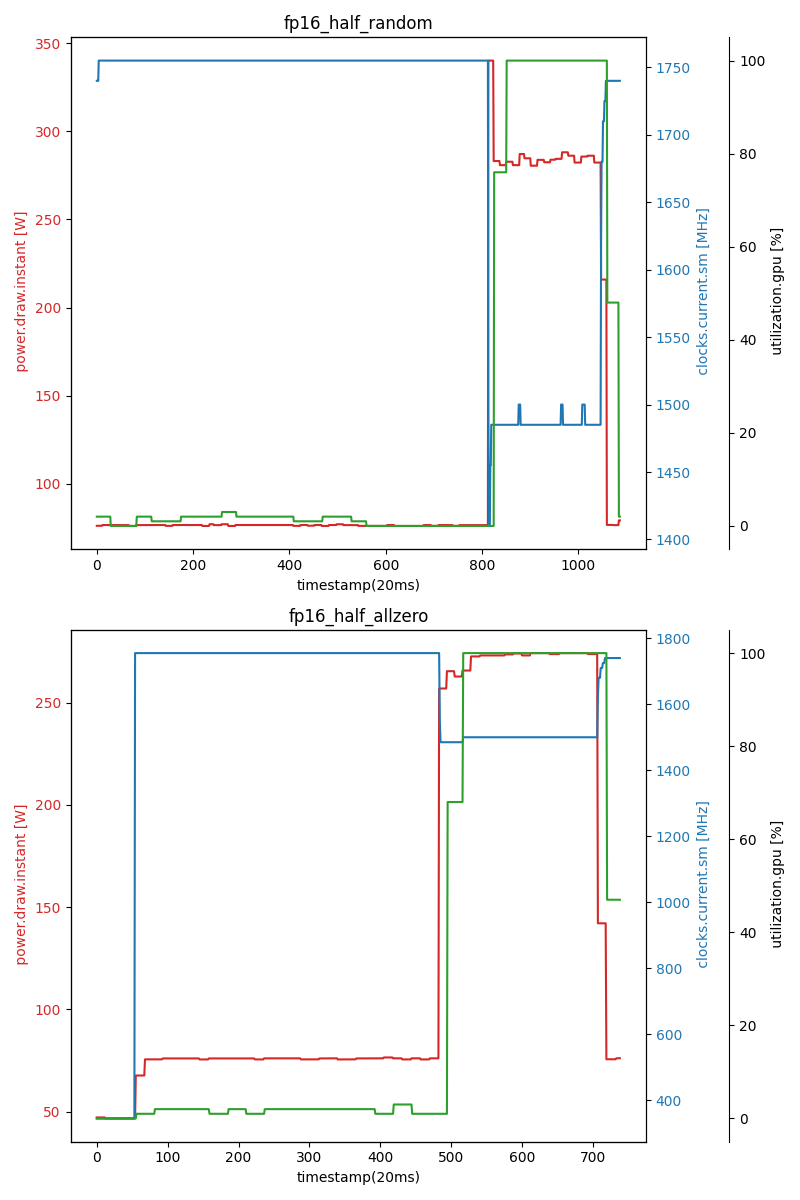
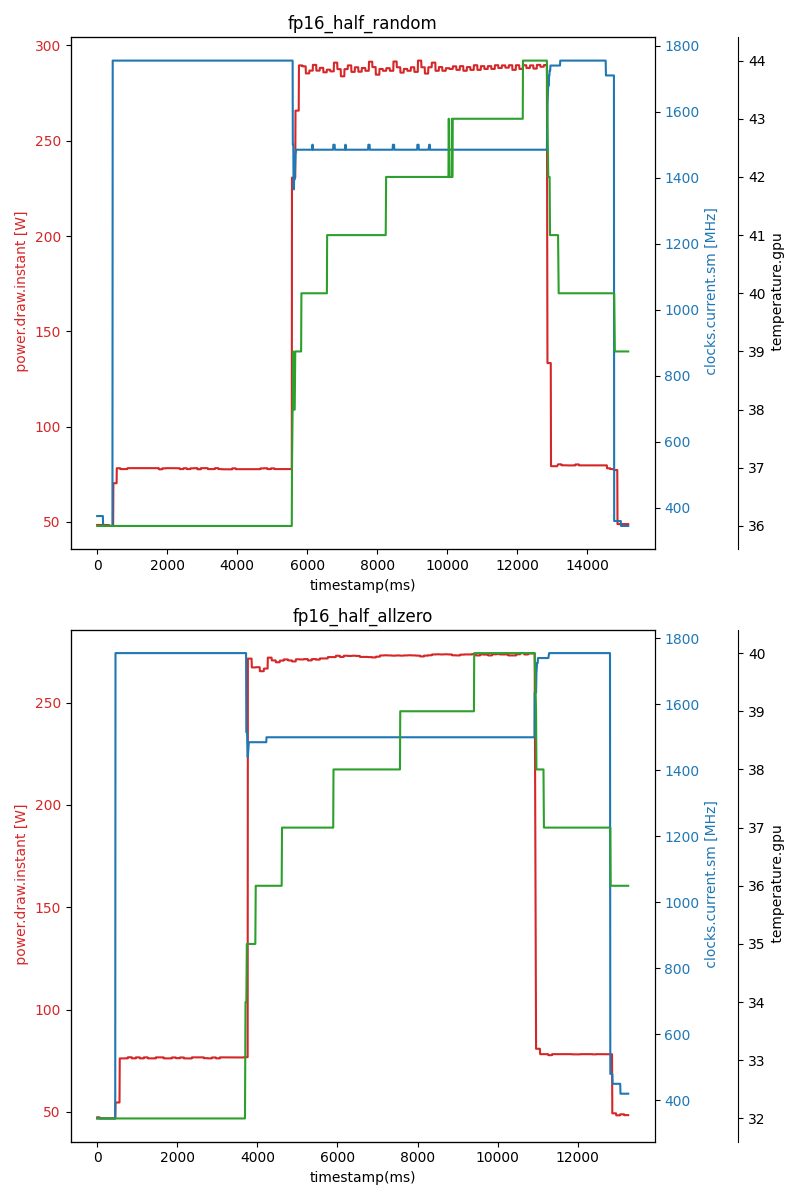
modify multi_draw.py

diff --git a/h100_350w_pcie/multi_draw.py b/h100_350w_pcie/multi_draw.py
@@ -9,6 +9,17 @@ param_A = sys.argv[1]  # 参数A
 param_B = sys.argv[2]  # 参数B
 param_C = sys.argv[3]  # 参数C
 
+def convert_timestamp(timestamp):
+    # 将时间戳字符串拆分成日期和时间部分
+    date, time = timestamp.split(' ')
+    
+    # 将时间部分拆分成小时、分钟和秒部分
+    hh, mm, ss = map(float, time.split(':'))
+    
+    # 执行单位换算并返回结果
+    converted_ts = int((((hh * 60 + mm) * 60) + ss) * 1000)
+    return converted_ts
+
 # 创建大图
 fig, axs = plt.subplots(len(files), 1, figsize=(8, 6 * len(files)))
 
@@ -27,16 +38,25 @@ for i, file in enumerate(files):
         idx_A = headers.index(param_A)
         idx_B = headers.index(param_B)
         idx_C = headers.index(param_C)
+        idx_X = headers.index("timestamp")
 
         # 初始化x和y的列表
         x_vals = []
         y_vals_A = []
         y_vals_B = []
         y_vals_C = []
+        x_min_val = 0
 
         # 读取CSV文件中的数据
         for xi, row in enumerate(reader):
-            x_vals.append(xi)
+            x_val = float(convert_timestamp(row[idx_X]))
+            if (xi == 0) :
+                x_min_val = x_val
+                x_val = 0
+            else :
+                x_val = x_val - x_min_val
+            #x_vals.append(xi)
+            x_vals.append(x_val)
             # 从参数A和参数B对应的列中提取第一个浮点数
             y_vals_A.append(float(re.findall(r"\d+\.\d+|\d+", row[idx_A])[0]))
             y_vals_B.append(float(re.findall(r"\d+\.\d+|\d+", row[idx_B])[0]))
@@ -47,7 +67,7 @@ for i, file in enumerate(files):
         ax1 = axs[i]
 
         color = 'tab:red'
-        ax1.set_xlabel('timestamp(20ms)')
+        ax1.set_xlabel('timestamp(ms)')
         lineA, = ax1.plot(x_vals, y_vals_A, color=color, label=param_A)
         ax1.set_ylabel(param_A, color=color)
         ax1.tick_params(axis='y', labelcolor=color)
